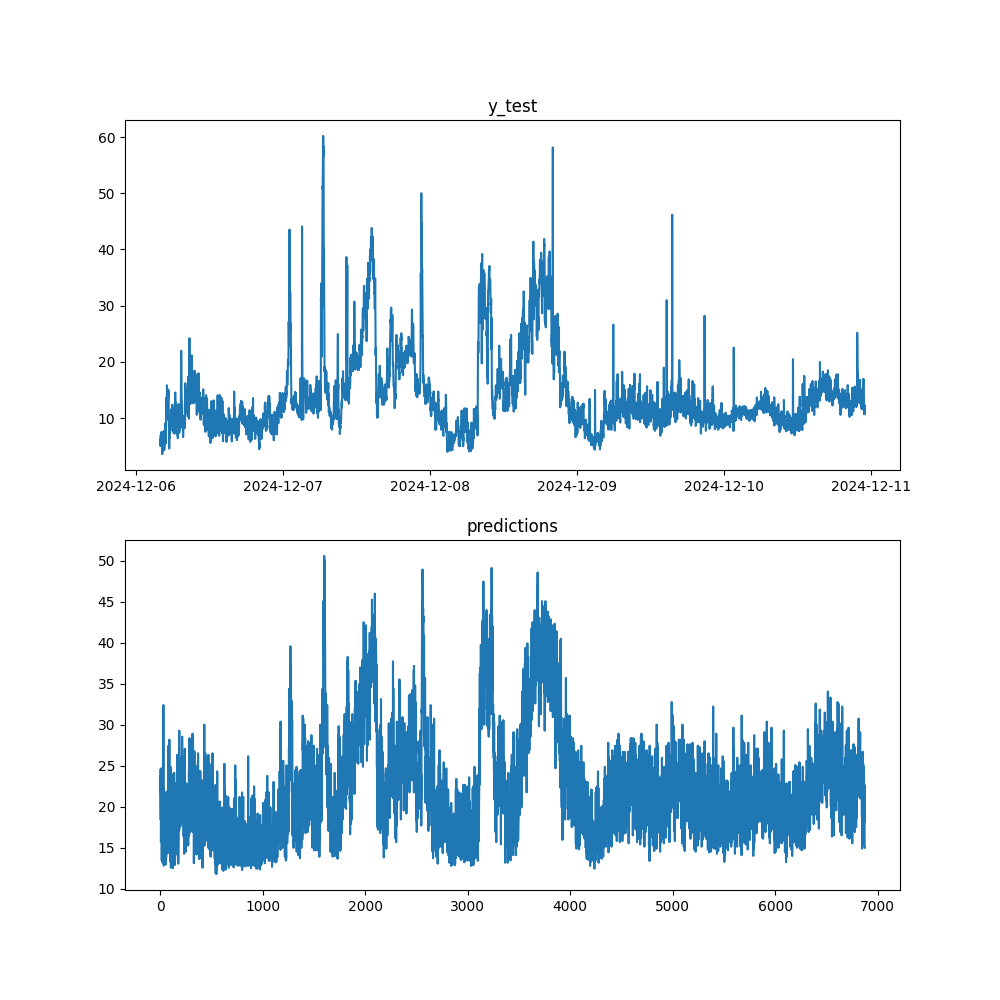
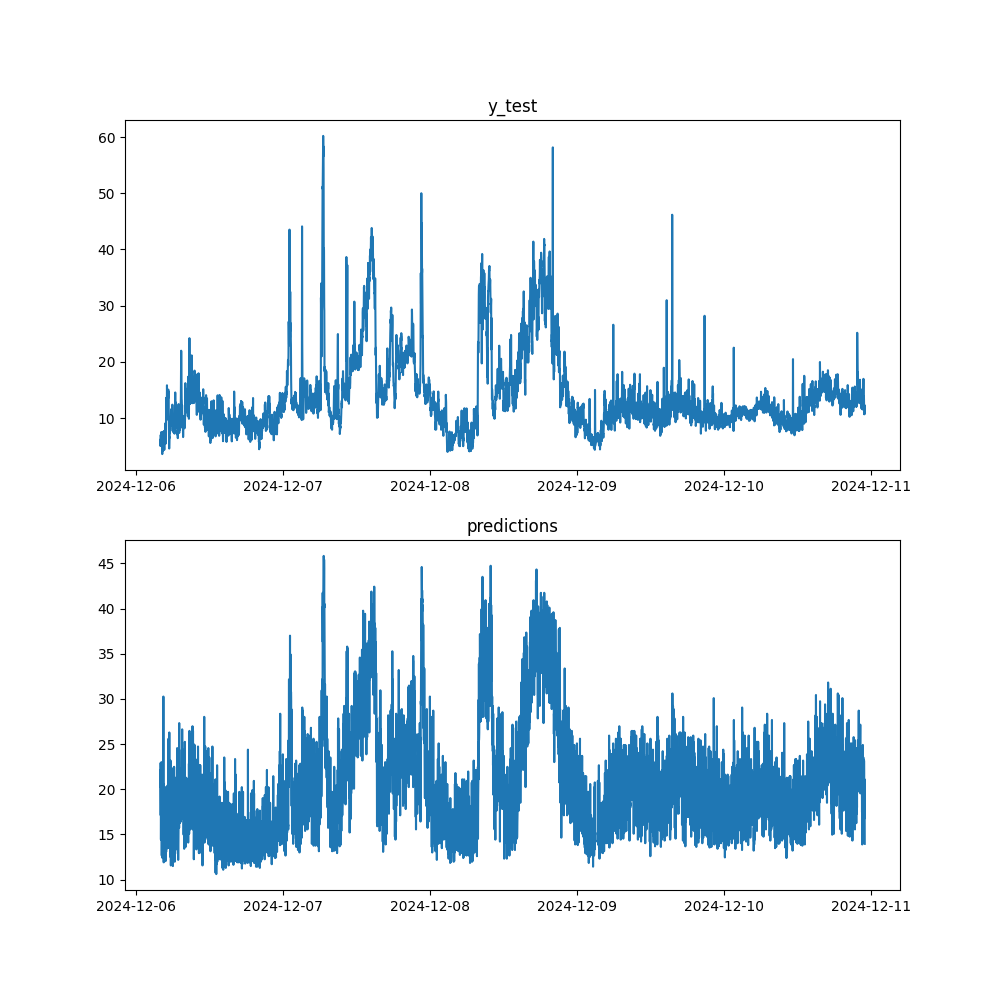
add date axis to prediction plots

diff --git a/workflows/sont_c_2/sont_c_2.py b/workflows/sont_c_2/sont_c_2.py
@@ -20,6 +20,8 @@ if __name__ == "__main__":
                 targets=y_train,
                 save=True)
     predictions = feedforward_model.predict(x_test)
+    predictions_dataframe = pd.DataFrame(predictions, index=y_test.index)
     deviation = y_test - predictions.flatten()
+    deviation_dataframe = pd.DataFrame(deviation, index=y_test.index)
 
-    plot_results('../../plots/sont_c_2.png', (y_test, "y_test"), (predictions, "predictions"), (deviation, "deviation"))
+    plot_results('../../plots/sont_c_2.png', (y_test, "y_test"), (predictions_dataframe, "predictions"), (deviation_dataframe, "deviation"))

diff --git a/workflows/sont_a_1/sont_a_1.py b/workflows/sont_a_1/sont_a_1.py
@@ -1,3 +1,4 @@
+import pandas as pd
 from sklearn.model_selection import train_test_split
 from models import create_feedforward_model
 from utils import *
@@ -19,6 +20,7 @@ if __name__ == "__main__":
                 targets=y_train,
                 save=False)
     predictions = feedforward_model.predict(x_test)
+    predictions_dataframe = pd.DataFrame(predictions, index=y_test.index)
 
-    plot_results('../../plots/sont_a_1.png', (y_test, "y_test"), (predictions, "predictions"))
+    plot_results('../../plots/sont_a_1.png', (y_test, "y_test"), (predictions_dataframe, "predictions"))
 

diff --git a/workflows/sont_c_3/sont_c_3.py b/workflows/sont_c_3/sont_c_3.py
@@ -7,5 +7,6 @@ if __name__ == "__main__":
 
     feedforward_model = load_model("../../models/feedforward_model.keras")
     december_prediction = feedforward_model.predict(sontc_data_december.get_difference_electrodes_no2)
+    december_dataframe = pd.DataFrame(december_prediction, index=sontc_data_december.get_dates)
 
-    plot_results('../../plots/sont_c_3.png', (sontc_data_december.get_NO2, "true"), (december_prediction, "prediction"))
+    plot_results('../../plots/sont_c_3.png', (sontc_data_december.get_NO2, "true"), (december_dataframe, "prediction"))

diff --git a/workflows/sont_c_1/sont_c_1.py b/workflows/sont_c_1/sont_c_1.py
@@ -19,6 +19,7 @@ if __name__ == "__main__":
                 targets=y_train,
                 save=False)
     predictions = feedforward_model.predict(x_test)
+    predictions_dataframe = pd.DataFrame(predictions, index=y_test.index)
 
-    plot_results('../../plots/sont_c_1.png', (y_test, "y_test"), (predictions, "predictions"))
+    plot_results('../../plots/sont_c_1.png', (y_test, "y_test"), (predictions_dataframe, "predictions"))
 
